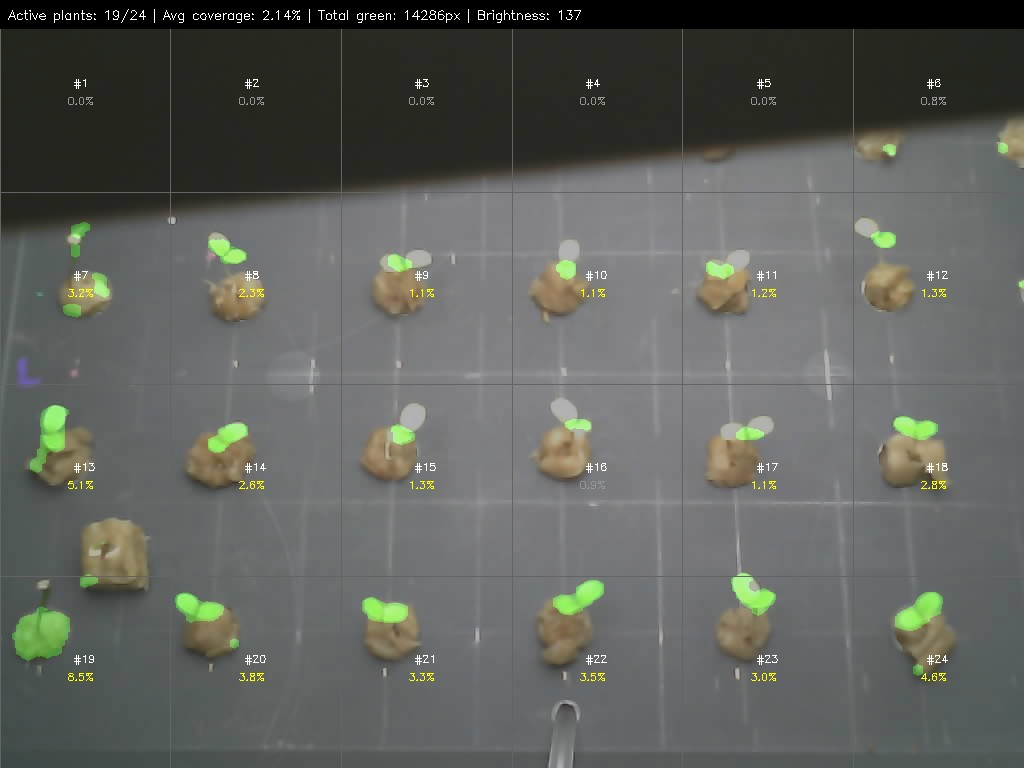
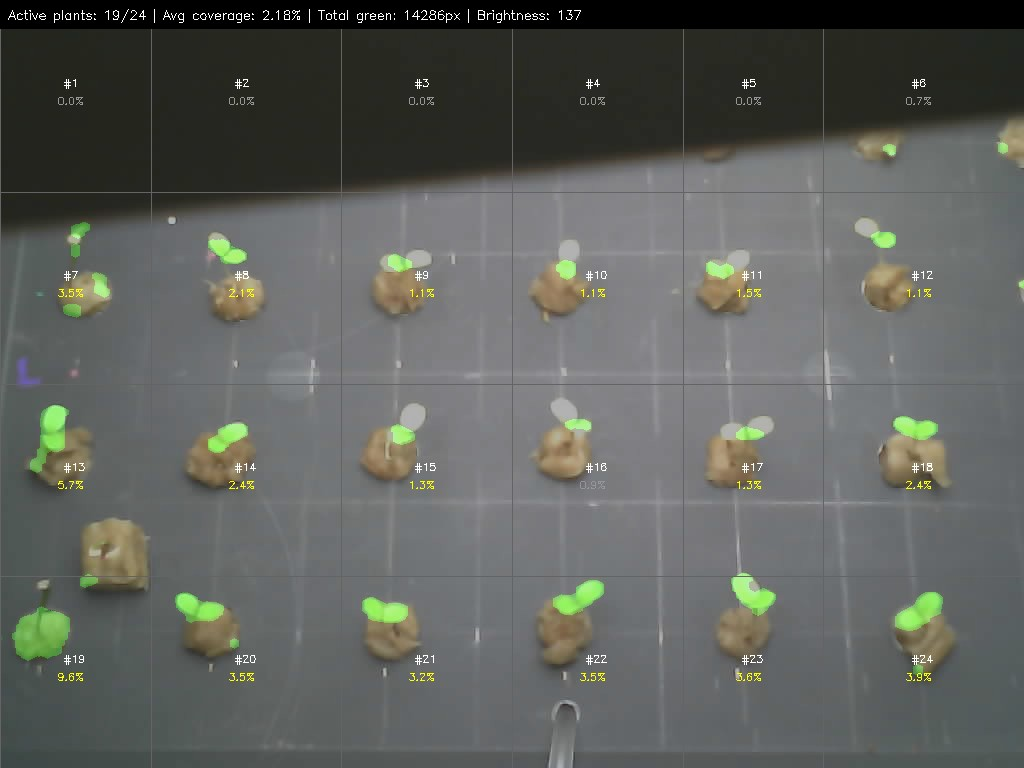
Custom column boundaries for grid alignment

diff --git a/analyze.py b/analyze.py
@@ -49,6 +49,14 @@ MORPH_ITER = 2
 # Margin inside each cell to avoid counting edge pixels (% of cell size)
 CELL_MARGIN_PCT = 5
 
+# Custom column boundaries (x positions). Set to None for even spacing.
+# Adjust these to align grid lines with actual plant columns.
+# 7 values for 6 columns: [left_edge, col1|col2, col2|col3, ..., right_edge]
+CUSTOM_COL_BOUNDS = [0, 151, 341, 512, 683, 823, 1024]
+
+# Custom row boundaries. Set to None for even spacing.
+CUSTOM_ROW_BOUNDS = None
+
 
 def ensure_dirs():
     for d in [OUTPUT_DIR, ANNOTATED_DIR, TUNE_DIR]:
@@ -91,27 +99,39 @@ def segment_green(img):
 
 def get_grid_cells(img_h, img_w):
     """
-    Compute 28 fixed grid cells. Each cell has a consistent ID (1-28).
-    Returns list of dicts: id, row, col, x, y, w, h (with margin applied).
+    Compute fixed grid cells with optional custom boundaries.
+    Each cell has a consistent ID (1-N).
     """
-    cell_w = img_w / GRID_COLS
-    cell_h = img_h / GRID_ROWS
-    mx = int(cell_w * CELL_MARGIN_PCT / 100)
-    my = int(cell_h * CELL_MARGIN_PCT / 100)
+    # Column boundaries
+    if CUSTOM_COL_BOUNDS:
+        col_bounds = CUSTOM_COL_BOUNDS
+    else:
+        col_bounds = [round(c * img_w / GRID_COLS) for c in range(GRID_COLS + 1)]
+
+    # Row boundaries
+    if CUSTOM_ROW_BOUNDS:
+        row_bounds = CUSTOM_ROW_BOUNDS
+    else:
+        row_bounds = [round(r * img_h / GRID_ROWS) for r in range(GRID_ROWS + 1)]
 
     cells = []
     for r in range(GRID_ROWS):
         for c in range(GRID_COLS):
-            cell_id = r * GRID_COLS + c + 1  # 1-28, consistent
-            x = int(c * cell_w) + mx
-            y = int(r * cell_h) + my
-            w = int(cell_w) - 2 * mx
-            h = int(cell_h) - 2 * my
+            cell_id = r * GRID_COLS + c + 1
+            x1 = col_bounds[c]
+            x2 = col_bounds[c + 1]
+            y1 = row_bounds[r]
+            y2 = row_bounds[r + 1]
+            cw = x2 - x1
+            ch = y2 - y1
+            mx = int(cw * CELL_MARGIN_PCT / 100)
+            my = int(ch * CELL_MARGIN_PCT / 100)
             cells.append({
                 "id": cell_id,
                 "row": r,
                 "col": c,
-                "x": x, "y": y, "w": w, "h": h,
+                "x": x1 + mx, "y": y1 + my,
+                "w": cw - 2 * mx, "h": ch - 2 * my,
             })
     return cells
 
@@ -155,21 +175,26 @@ def draw_annotated(img, mask, cells, measurements, stats):
     overlay[mask > 0] = (0, 220, 0)
     out = cv2.addWeighted(out, 0.7, overlay, 0.3, 0)
 
-    cell_w = w / GRID_COLS
-    cell_h = h / GRID_ROWS
+    # Grid boundaries
+    if CUSTOM_COL_BOUNDS:
+        col_bounds = CUSTOM_COL_BOUNDS
+    else:
+        col_bounds = [round(c * w / GRID_COLS) for c in range(GRID_COLS + 1)]
+    if CUSTOM_ROW_BOUNDS:
+        row_bounds = CUSTOM_ROW_BOUNDS
+    else:
+        row_bounds = [round(r * h / GRID_ROWS) for r in range(GRID_ROWS + 1)]
 
     # Grid lines
-    for c in range(GRID_COLS + 1):
-        x = int(c * cell_w)
+    for x in col_bounds:
         cv2.line(out, (x, 0), (x, h), (100, 100, 100), 1)
-    for r in range(GRID_ROWS + 1):
-        y = int(r * cell_h)
+    for y in row_bounds:
         cv2.line(out, (0, y), (w, y), (100, 100, 100), 1)
 
     # Per-cell labels
     for m in measurements:
-        cx = int((m["col"] + 0.5) * cell_w)
-        cy = int((m["row"] + 0.5) * cell_h)
+        cx = (col_bounds[m["col"]] + col_bounds[m["col"] + 1]) // 2
+        cy = (row_bounds[m["row"]] + row_bounds[m["row"] + 1]) // 2
 
         # Color code: white if low coverage, green if high
         color = (0, 255, 255) if m["coverage_pct"] > 1.0 else (150, 150, 150)
